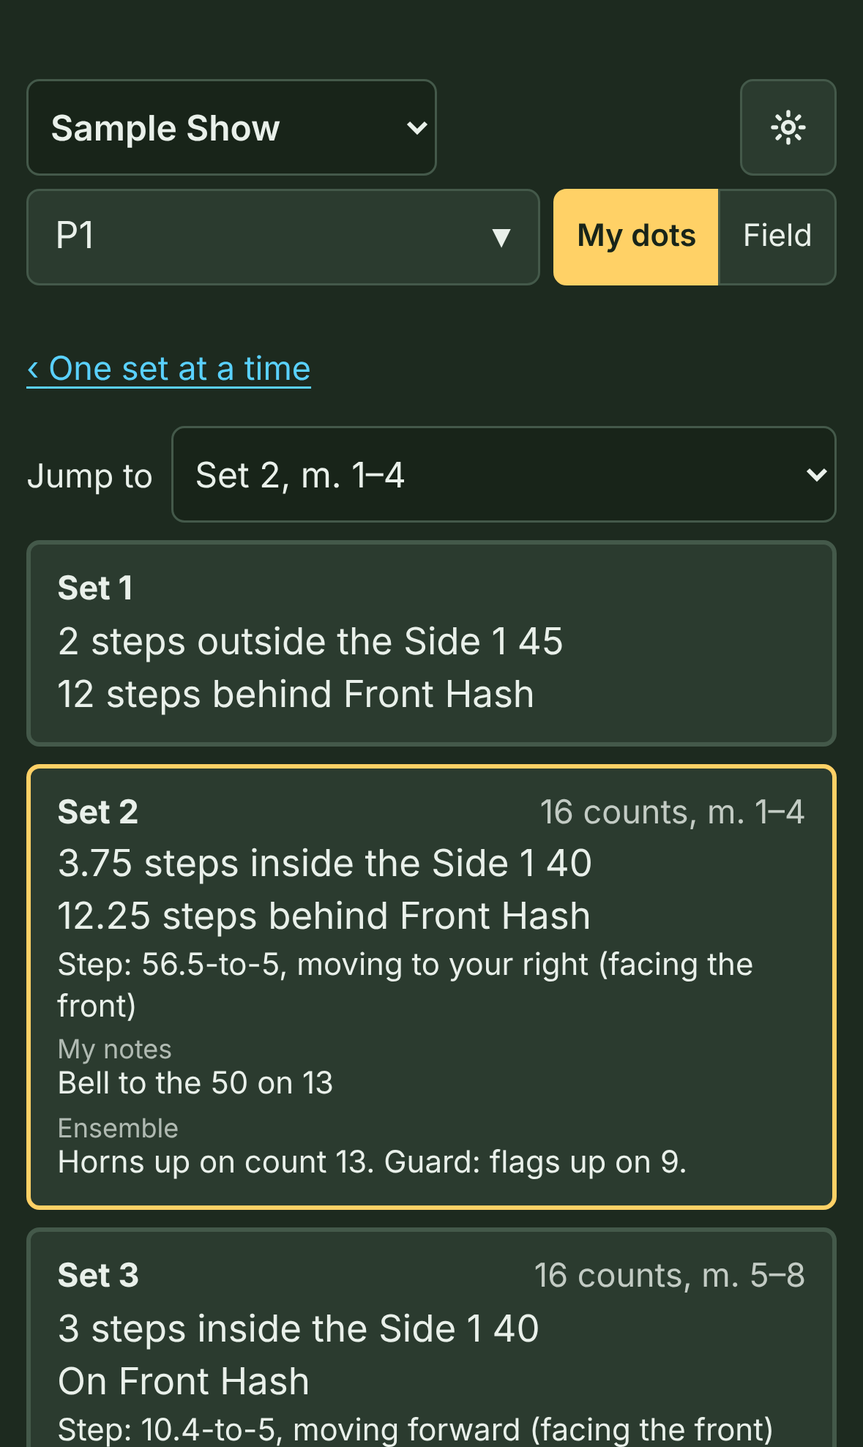
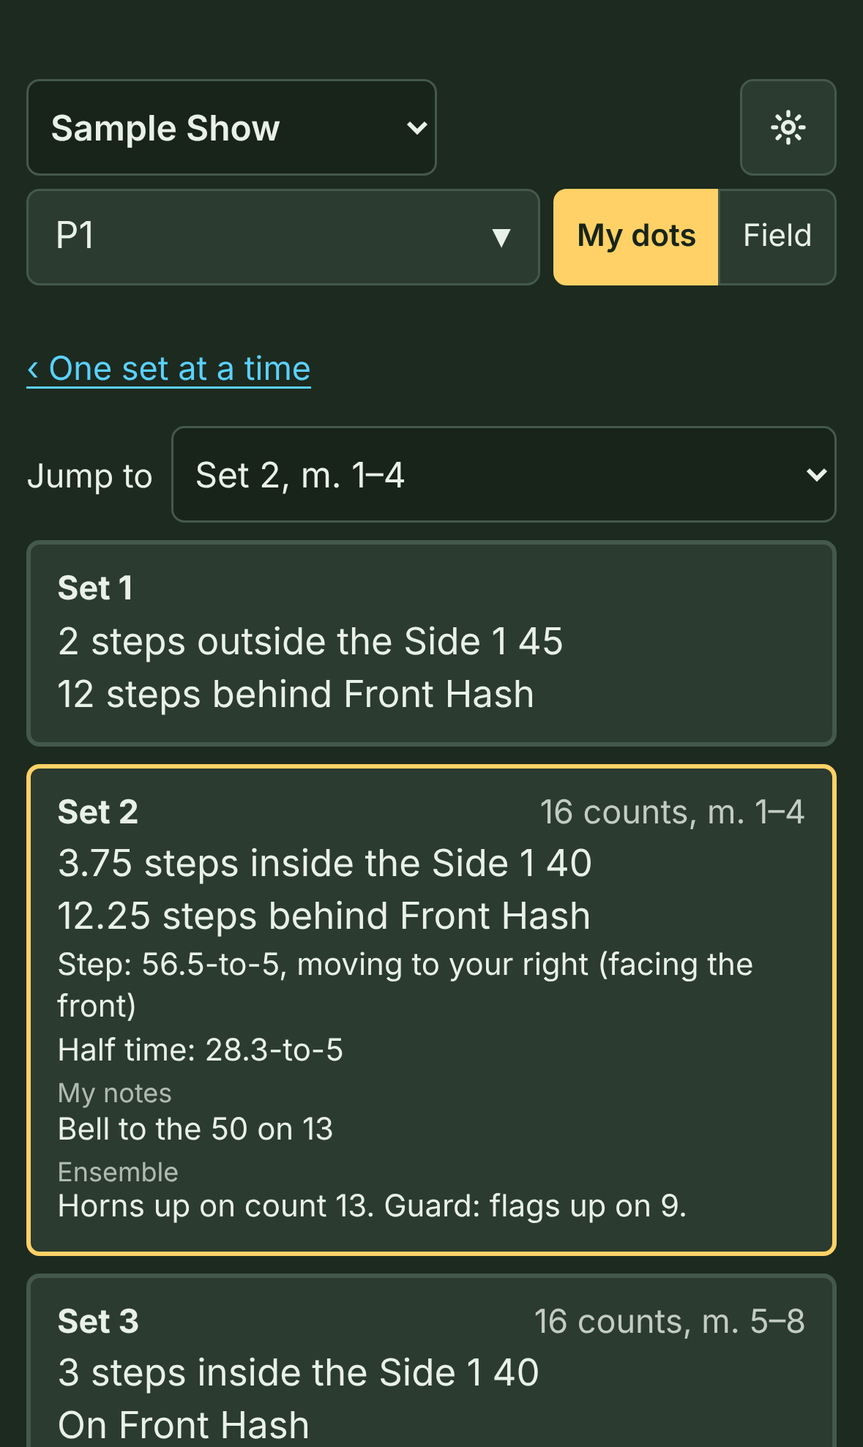
Half time on students' phones; a shape for each set color
- My dots cards show "Half time: 4-to-5" under the step (Spanish: Medio
  tiempo), with ⚠ when it's past the show's limit (Jason: students should see it).
- Each set color has its own shape (Blue ●, Purple ▲, Pink ✚, Orange ■, Teal ◆,
  Gray ★) before the set's name on the timeline, on the move into it, and in the
  set menu, so a colored set stands out, and the colors tell apart, without
  seeing color. palette.test.ts checks every color has a different shape.
- HOW-TO.md, STUDENTS.md and its Spanish twin, DECISIONS.md, and PLAN.md; the
  set-name, phone, and phone-all screenshots retaken.

Claude-Session: https://claude.ai/code/session_012ak5ZUYfV1W6pGA16tA6fL

Changed region(s): [[0.0305, 0.7097, 0.9771, 1.0]]

diff --git a/src/ui/Timeline.tsx b/src/ui/Timeline.tsx
@@ -48,6 +48,8 @@ export function Timeline({ show, checked = show, setShow, t, setT, playing, setP
   // A set's color (the writer's own grouping): a stripe on its button and its move, with the color's name in words too.
   const stripe = (i: number) => { const c = show.sets[i].color; return c ? setColorShade(c, theme) : null; };
   const colorWord = (i: number) => { const c = show.sets[i].color; return c ? ` (${SET_COLORS[c].name})` : ''; };
+  // ...and its own shape before the name, so a colored set stands out without seeing color (Jason).
+  const mark = (i: number) => { const c = show.sets[i].color; return c ? <span aria-hidden style={{ color: setColorShade(c, theme), marginRight: 3 }}>{SET_COLORS[c].mark}</span> : null; };
   // Pairs under a step apart, per move, from the settled show (so not on every step of a drag); only moves whose sets changed are checked again.
   const close = useMemo(() => checked.sets.map((_, i) => (i ? closeCallsMemo(checked, i).length : 0)), [checked]);
   const { to, count } = locate(show, t);
@@ -254,7 +256,7 @@ export function Timeline({ show, checked = show, setShow, t, setT, playing, setP
               boxShadow: [stripe(i) && `inset 0 -4px 0 ${stripe(i)}`, i === onSet && 'inset 0 0 0 2px var(--gold)'].filter(Boolean).join(', ') || undefined,
               ...(held === i ? { background: 'var(--gold-fill)', color: 'var(--on-gold)', transform: 'scale(1.1)', zIndex: 2 } : {}), padding: '0 6px', minWidth: TOUCH ? 44 : 24, lineHeight: '18px',
               cursor: i ? 'ew-resize' : 'pointer', touchAction: 'none' }}>
-            {s.name}
+            {mark(i)}{s.name}
           </button>
         ))}
       </div>
@@ -280,7 +282,7 @@ export function Timeline({ show, checked = show, setShow, t, setT, playing, setP
                 boxShadow: [stripe(i) && `inset 0 3px 0 ${stripe(i)}`, i === to && onSet < 0 && !past && 'inset 0 -3px 0 var(--gold)'].filter(Boolean).join(', ') || undefined }}>
                 <div style={{ padding: '2px 6px' }}>
                   {/* Counts and measures; then the biggest step, on every move, with ⚠ only when it's too big. No dots between. */}
-                  <div title={`Set ${show.sets[i - 1].name} to set ${s.name}${colorWord(i)}`}>{s.counts} counts{s.measures ? `, m. ${s.measures}` : ''}{s.ftl?.some((g) => g.order.length > 1) ? ', FTL' : s.ftl?.length ? ', custom path' : ''}
+                  <div title={`Set ${show.sets[i - 1].name} to set ${s.name}${colorWord(i)}`}>{mark(i)}{s.counts} counts{s.measures ? `, m. ${s.measures}` : ''}{s.ftl?.some((g) => g.order.length > 1) ? ', FTL' : s.ftl?.length ? ', custom path' : ''}
                     {big && short && <>, {maxStep(i, big.per5, big.tier)}</>}
                     {!!close[i] && short && <>, {tooClose(i)}</>}</div>
                   {big && !short && <div>{maxStep(i, big.per5, big.tier)}{!!close[i] && <>, {tooClose(i)}</>}</div>}
@@ -414,11 +416,11 @@ function SetColorPicker({ show, setShow, i }: { show: Show; setShow: (f: (s: Sho
       <button role="radio" aria-checked={!cur} onClick={() => pick(null)} style={chip}>No color</button>
       {SET_COLOR_NAMES.map((c) => (
         <button key={c} role="radio" aria-checked={cur === c} onClick={() => pick(c)} style={chip}>
-          <span aria-hidden style={{ width: 12, height: 12, borderRadius: 3, background: setColorShade(c, theme) }} />{SET_COLORS[c].name}
+          <span aria-hidden style={{ color: setColorShade(c, theme) }}>{SET_COLORS[c].mark}</span>{SET_COLORS[c].name}
         </button>
       ))}
     </div>
-    <p style={{ margin: '6px 0 0', opacity: 0.75, fontSize: 12, whiteSpace: 'normal', maxWidth: 280 }}>Group sets your own way (a tune, a phrase, what's finished). The color shows as a stripe on the timeline.</p>
+    <p style={{ margin: '6px 0 0', opacity: 0.75, fontSize: 12, whiteSpace: 'normal', maxWidth: 280 }}>Group sets your own way (a tune, a phrase, what's finished). The timeline shows the color's shape before the set's name, and a stripe in its color.</p>
   </>;
 }
 

diff --git a/src/perform/Perform.tsx b/src/perform/Perform.tsx
@@ -3,14 +3,14 @@ import { ThemeButton } from '../ui/ThemeButton';
 // Performer / staff view: read-only playback of a shared show, centered on "my" dot. Built for phones: upright, a performer
 // sees their dots as a list (My dots); sideways, the field and playback. A switch overrides the phone's orientation.
 import { lazy, Suspense, useEffect, useMemo, useRef, useState } from 'react';
-import { fieldDepth, readout, type Point } from '../engine/coords';
+import { STEP_LIMIT, fieldDepth, readout, type Point } from '../engine/coords';
 import { decodeShow, fetchHosted, LOAD_PREFIX, linkHash, parseHosted, SHARE_PREFIX } from '../engine/share';
 const Scanner = lazy(() => import('./Scanner').then((m) => ({ default: m.Scanner }))); // the QR reader is big; only a scan loads it
 import { isPhone } from './device';
 import { colorOf, fieldOf, propsAt, locate, mark, parseShow, positionsAt, setAt, setStarts, showLength, type Show } from '../engine/show';
 import { drawField, drawGlyph, drawLabels, drawMarks, drawPerformers, drawProps, fitView, INK, STEP_TEXT, toScreen, type View } from '../field/drawField';
 import { layoutPref, setLayoutPref } from '../ui/layout';
-import { fmtStep } from '../ui/format';
+import { fmtStep, halfTime } from '../ui/format';
 import { usePlayback } from '../ui/usePlayback';
 import { audioTime, clickAt, clickWanted, setClickWanted, wakeClick } from '../ui/click';
 import { COUNT_IN, countInBeat } from './countIn';
@@ -488,6 +488,8 @@ export function Perform() {
     <span className="dot-coord">{r.front}</span><span className="sr-only">. </span>
     {/* The move in plain words, with the step size in parentheses: "smaller step size than normal (10.4-to-5), moving forward". */}
     {r.steps && <span className="dot-small">{r.steps.tier !== 'ok' && '⚠ '}{tr('Step')}: <span style={{ color: STEP_TEXT[r.steps.tier] }}>{fmtStep(r.steps.per5, lang)}</span>{r.way ? `, ${r.way}` : ''}<span className="sr-only">. </span></span>}
+    {/* The same move marched half time (a step every other count), for students too (Jason, 2026-11-21). */}
+    {r.steps && (() => { const h = halfTime(r.steps.per5, show.stepLimit ?? STEP_LIMIT); return h && <span className="dot-small">{h.tier !== 'ok' && '⚠ '}{tr('Half time')}: <span style={{ color: STEP_TEXT[h.tier] }}>{fmtStep(h.per5, lang)}</span><span className="sr-only">. </span></span>; })()}
     {r.held && <span className="dot-small">{tr('Hold (same spot as set {name})', { name: show.sets[r.index - 1].name })}<span className="sr-only">. </span></span>}
     {r.hold && <span className="dot-small">{tr('hold {w}, move {m}', { w: r.hold.wait, m: r.hold.move })}{r.hold.after ? `, ${tr('hold {w}', { w: r.hold.after })}` : ''}<span className="sr-only">. </span></span>}
     {r.cue && <span className="dot-small"><span className="perform-k">{tr('My notes')}<span className="sr-only">: </span></span>{r.cue}<span className="sr-only">. </span></span>}

diff --git a/src/ui/palette.ts b/src/ui/palette.ts
@@ -139,17 +139,18 @@ export const useTheme = () => useSyncExternalStore((f) => { listeners.add(f); re
 
 /**
  * The colors a drill writer can tag a set with (a stripe on its timeline button and move). They carry only the writer's own
- * meaning, and always come with their name (tooltips, the set's menu, the sidebar), so color is never the only signal.
+ * meaning. Color is never the only signal: each has its own shape (`mark`, shown before the set's name, so a colored set
+ * stands out and the colors tell apart without seeing color, Jason), and its name in tooltips and spoken labels.
  * None is red, yellow, gold, or green, which already mean too big, bigger, selected, and done. Each has a shade per mode,
  * at least 3:1 against every panel color (palette.test.ts).
  */
-export const SET_COLORS: Record<SetColor, { name: string; dark: string; light: string }> = {
-  blue: { name: 'Blue', dark: '#6aa9ff', light: '#1f5fbf' },
-  purple: { name: 'Purple', dark: '#c39bff', light: '#7a3fc4' },
-  pink: { name: 'Pink', dark: '#ff8cc6', light: '#b8327a' },
-  orange: { name: 'Orange', dark: '#ffa45c', light: '#a8530f' },
-  teal: { name: 'Teal', dark: '#4fd1c5', light: '#0f7a70' },
-  gray: { name: 'Gray', dark: '#b8c2bb', light: '#5e6a63' },
+export const SET_COLORS: Record<SetColor, { name: string; mark: string; dark: string; light: string }> = {
+  blue: { name: 'Blue', mark: '●', dark: '#6aa9ff', light: '#1f5fbf' },
+  purple: { name: 'Purple', mark: '▲', dark: '#c39bff', light: '#7a3fc4' },
+  pink: { name: 'Pink', mark: '✚', dark: '#ff8cc6', light: '#b8327a' },
+  orange: { name: 'Orange', mark: '■', dark: '#ffa45c', light: '#a8530f' },
+  teal: { name: 'Teal', mark: '◆', dark: '#4fd1c5', light: '#0f7a70' },
+  gray: { name: 'Gray', mark: '★', dark: '#b8c2bb', light: '#5e6a63' },
 };
 /** A set color's shade in the current mode. */
 export const setColorShade = (c: SetColor, t: ThemeName) => SET_COLORS[c][t];

diff --git a/src/ui/palette.test.ts b/src/ui/palette.test.ts
@@ -40,6 +40,9 @@ describe.each([['app/index.html', app], ['index.html (the front page)', front], 
     // Set colors (a stripe on the timeline): 3:1 against every panel color, each in its own mode.
     for (const c of Object.values(SET_COLORS)) for (const [shade, Q] of [[c.dark, PALETTE], [c.light, LIGHT]] as const)
       for (const bg of [Q.bg, Q['bg-deep'], Q.surface, Q['surface-2']]) expect(ratio(shade, bg)).toBeGreaterThanOrEqual(3);
+    // Each color has its own shape, so a colored set stands out, and the colors tell apart, without seeing color.
+    const marks = Object.values(SET_COLORS).map((c) => c.mark);
+    expect(new Set(marks).size).toBe(marks.length);
   });
 });
 

diff --git a/src/i18n/es.ts b/src/i18n/es.ts
@@ -176,6 +176,7 @@ export const ES: Record<string, string> = {
   // My dots one set at a time, and the field's view names (2026-11-21)
   'Set': 'Set',
   'Step': 'Paso',
+  'Half time': 'Medio tiempo',
   'Watch move': 'Ver el movimiento',
   'Previous set': 'Set anterior',
   'Set {name}, m. {m}': 'Set {name}, c. {m}',

diff --git a/docs/HOW-TO.md b/docs/HOW-TO.md
@@ -160,7 +160,7 @@ The Selection area also has **Select all** (⌘A, or Ctrl+A on Windows) and **Se
 
 Coordinates read side to side first, then front to back, from the nearest yard line and the nearest sideline or hash, rounded to quarter steps. For example: "2 steps outside the Side 2 45, 2 steps in front of Front Hash," "Splitting 40 and 45 on Side 1," or "On the 50." Open **All sets** to see that performer's spot in every set.
 
-**Step size.** Under the coordinate, the sidebar gives that performer's exact step size for the move into the set, even a normal one, like "Move into set 3: 8.3-to-5, 16 counts." A delayed step-off says how many counts they actually move ("12 of 16 counts"), and a hold says so. The line under it, **Half time**, is the same move marched on every other count, so each step is twice as long: an 8-to-5 move is a 4-to-5 at half time. Use it to see whether a move will look as big as you want before you write it that way. A step past the warnings says so in words (⚠ a big step, ⚠ over the step limit), not only in color.
+**Step size.** Under the coordinate, the sidebar gives that performer's exact step size for the move into the set, even a normal one, like "Move into set 3: 8.3-to-5, 16 counts." A delayed step-off says how many counts they actually move ("12 of 16 counts"), and a hold says so. The line under it, **Half time**, is the same move marched on every other count, so each step is twice as long: an 8-to-5 move is a 4-to-5 at half time. Use it to see whether a move will look as big as you want before you write it that way. Performers see the half-time step on their phones too, under their step. A step past the warnings says so in words (⚠ a big step, ⚠ over the step limit), not only in color.
 
 **Placing someone exactly.** Open **Place exactly (this set)** under the coordinate, fill in the steps, inside or outside, the side and yard line, then the steps in front of or behind a sideline or hash, and click **Place**.
 
@@ -188,7 +188,7 @@ A set is one picture of the drill, and the move into it takes a number of counts
 
 Once you name a set yourself, FreeFORM stops renumbering sets for you. Adding or deleting a set leaves every other name alone, so your 12 stays 12. Shows you open from Pyware or OpenMarch start out this way, so their set names stay the way the writer had them (4A stays 4A). A new set gets the next number if it's free (after 6 comes 7) or a sub-set name if it isn't (6A). When you're done, **Renumber sets** in the same menu numbers every set in order, sub-sets included (1, 1A, 2 become 1, 2, 3), and FreeFORM goes back to numbering new sets itself. Undo reverses either one.
 
-**Coloring sets.** The same menu has a row of colors: **Blue**, **Purple**, **Pink**, **Orange**, **Teal**, and **Gray**, or **No color**. Use them to group sets your own way, like one color per tune, per phrase, or for sets that are finished. A colored set gets a stripe along the bottom of its button on the timeline and along the top of the move into it, and the color's name is in the button's tooltip. Colors are only for you in the editor: phones and printouts don't show them.
+**Coloring sets.** The same menu has a row of colors: **Blue**, **Purple**, **Pink**, **Orange**, **Teal**, and **Gray**, or **No color**. Use them to group sets your own way, like one color per tune, per phrase, or for sets that are finished. Each color has its own shape too (Blue ●, Purple ▲, Pink ✚, Orange ■, Teal ◆, Gray ★), so a colored set stands out even for someone who can't tell the colors apart. On the timeline, the shape comes before the set's name on its button and before the counts on the move into it, with a stripe in the color along each, and the color's name is in the tooltip. Colors are only for you in the editor: phones and printouts don't show them.
 
 Each move on the timeline shows its counts, measures, and the biggest step anyone takes, like **Max 8-to-5** (colored, with ⚠ in front, if it's too big; see [Step-size warnings](#step-size-and-too-close-warnings)).
 
@@ -550,7 +550,7 @@ When a student opens your link on their phone, they pick who they are.
 
 They can search by name, by dot (P4), or by section, and **Staff (whole band)** at the top shows everyone. FreeFORM remembers their choice, and the show keeps working offline once it's opened. (If the phone can't save it, say in a private window or with its storage full, a warning says so: the show will be gone when they close it and won't work offline, so they should open it in a regular window.)
 
-**Upright, the phone shows their dots, one set at a time.** Holding the phone upright, a performer sees **My dots**: the set buttons along the top, then a card for the set they're on, like one line of their printed dot sheet. The card has the set (**Set 2 ▾**: tap it for the phone's own list of sets), its counts and measures, and the side-to-side and front-to-back spot. It gives the step into it, like "Step: 8-to-5, moving back and to your left (facing the front)", with ⚠ in front only when the step is bigger than the show's limit, plus any hold before stepping off, their own notes, and the ensemble notes. When the route isn't a straight line (a custom path, a follow-the-leader, or a turn), it says so and gives only where they end up, since the straight-line direction would point them the wrong way. **▶ Watch move** plays the move into that set on the field. **‹ Previous set** and **Next set ›** stay at the bottom of the screen, wherever the card ends, with **All sets** between them: the whole list, like the printed dot sheet, with **Jump to** at the top. Tap a set in the list to see it as a card again.
+**Upright, the phone shows their dots, one set at a time.** Holding the phone upright, a performer sees **My dots**: the set buttons along the top, then a card for the set they're on, like one line of their printed dot sheet. The card has the set (**Set 2 ▾**: tap it for the phone's own list of sets), its counts and measures, and the side-to-side and front-to-back spot. It gives the step into it, like "Step: 8-to-5, moving back and to your left (facing the front)", and the same move marched half time ("Half time: 4-to-5"), each with ⚠ in front only when the step is bigger than the show's limit, plus any hold before stepping off, their own notes, and the ensemble notes. When the route isn't a straight line (a custom path, a follow-the-leader, or a turn), it says so and gives only where they end up, since the straight-line direction would point them the wrong way. **▶ Watch move** plays the move into that set on the field. **‹ Previous set** and **Next set ›** stay at the bottom of the screen, wherever the card ends, with **All sets** between them: the whole list, like the printed dot sheet, with **Jump to** at the top. Tap a set in the list to see it as a card again.
 
 ![A performer's set 2, on an upright phone](img/phone.png)
 

diff --git a/DECISIONS.md b/DECISIONS.md
@@ -681,10 +681,10 @@ Recent decisions are here. Older ones are in [docs/decisions/](docs/decisions/),
 ## 2026-11-21 19:20 EST: Shubreet Kaur's feedback
 - **Who:** Shubreet Kaur asked for these through the feedback form. Jason chose how set colors work (the writer picks one). The rest of the details are Claude's (*Jason can veto*).
 - **Exact step size:** clicking one performer shows "Move into set 3: 8.3-to-5, 16 counts" under their coordinate in the sidebar, for every move (a delayed step-off says "12 of 16 counts"; a hold says so). Warnings are in words too (⚠ a big step, ⚠ over the step limit). *Other options:* on the field beside the dot (crowded); only in a hover readout (gone on a touch screen).
-- **Half time:** a **Half time** line under it, on every move, with the same warning tiers: an 8-to-5 move reads "Half time: 4-to-5". Shubreet wants it to judge how big a move will look, not only for tiny steps. It's only in the editor: phones show the step as written, since a performer marches what the director wrote. *Other options:* a "half time" mark per move that changes the phone's step and the warnings (a bigger feature; worth doing if writers want to tell students "half time" in the drill itself); showing half time only for steps of 12-to-5 or smaller.
+- **Half time:** a **Half time** line under it, on every move, with the same warning tiers: an 8-to-5 move reads "Half time: 4-to-5". Shubreet wants it to judge how big a move will look, not only for tiny steps. Phones show it too, under the step, as "Half time: 4-to-5" (Spanish: "Medio tiempo"), with ⚠ when it's past the limit (Jason, 19:46: students should see it; Claude had first left it editor-only). *Other options:* a "half time" mark per move that changes the phone's step and the warnings (a bigger feature; worth doing if writers want to tell students "half time" in the drill itself); showing half time only for steps of 12-to-5 or smaller.
 - **Rotate around a performer:** the bug was that **Around** in **Rotate & Scale** only reached the ↺ ↻ and Expand/Contract buttons. The knob and corners on the field always used the center. Now they use the same choice, with a blue cross on the pivot performer and "around T1" in the readout. The choice is kept while those performers stay selected.
 - **Closest dot:** a checkbox in **Shape**, for every shape, not just the circle. On, each performer takes the spot nearest where they stand in this set (least total distance from there), and it deals the spots again as the handles move. Off (the default, as before), spots go by the shortest move from the set before. It stays on for the visit. *Other options:* a circle-only button; making it the default (it can cross paths in the move, which the old default never does).
-- **Set colors:** a row of six named colors in **Set N ▾** (Blue, Purple, Pink, Orange, Teal, Gray, or No color), saved with the set. A stripe along the bottom of the set's timeline button and the top of the move into it, with the color's name in the tooltip and the button's spoken name, so color isn't the only signal. No red, yellow, gold, or green, which already mean warnings, selection, and done. A shade per mode, each at least 3:1 on every panel color (`SET_COLORS` in palette.ts, tested). Editor only: phones and printouts don't show them. *Other options (Jason):* phones and chart headers too; automatic colors by movement.
+- **Set colors:** a row of six named colors in **Set N ▾** (Blue, Purple, Pink, Orange, Teal, Gray, or No color), saved with the set. A stripe along the bottom of the set's timeline button and the top of the move into it, with the color's name in the tooltip and the button's spoken name. Each color also has its own shape before the set's name, on the move, and in the menu (Blue ●, Purple ▲, Pink ✚, Orange ■, Teal ◆, Gray ★), so a colored set stands out, and the colors tell apart, without seeing color (Jason, 19:46). *Other options (Claude):* one shared mark for every colored set (it says "special" but not which color); stripe patterns (solid, dashed, dotted), which are hard to tell apart at 3 or 4 px. No red, yellow, gold, or green, which already mean warnings, selection, and done. A shade per mode, each at least 3:1 on every panel color (`SET_COLORS` in palette.ts, tested). Editor only: phones and printouts don't show them. *Other options (Jason):* phones and chart headers too; automatic colors by movement.
 - **Notes on the phone's Field screen:** the set's **My notes** and **Ensemble** notes show under the one-line readout, in the side column, so the field never changes size.
 - **Movement names:** Shubreet said the movement labels on the timeline were covered by the audio track. The waveform was drawn over them; now the names are drawn on top of it.
 

diff --git a/PLAN.md b/PLAN.md
@@ -26,13 +26,13 @@
 ## From Shubreet Kaur's feedback (2026-11-21, through the feedback form)
 - [x] Set names, counts, measures, and notes no longer hidden by the audio track: they show in the sidebar now (done in the simpler screen). Movement names on the timeline are drawn over the waveform now, not under it.
 - [x] Clicking a performer shows their exact step size for the move, even a normal step.
-- [x] Half time shown with its step size: a **Half time** line under the step size, on every move (editor only).
-- [x] Color-coded sets: six named colors in **Set N ▾**, a stripe on the timeline (editor only).
+- [x] Half time shown with its step size: a **Half time** line under the step size, on every move, in the editor and on students' phones.
+- [x] Color-coded sets: six named colors in **Set N ▾**, each with its own shape, on the timeline (editor only).
 - [x] Bug: rotate (and scale) around a chosen performer turned around the selection's center when you used the knob and corners on the field. They use **Around** now.
 - [x] **Closest dot** in **Shape**: each performer takes the spot nearest where they stand.
 - [x] Set notes on the phone's Field screen, not only on My dots.
 - [ ] Ask: which Pyware version Shubreet uses, and a show file to test import (asked 2026-11-21).
-- [ ] Maybe: a "half time" mark per move that phones and the warnings use, if writers want to tell students in the drill itself.
+- [ ] Maybe: a "half time" mark per move, so the writer says which moves are half time and phones and the warnings use that step.
 - [ ] Maybe: set colors on phones and printed chart headers.
 
 ## Later milestones (rough order)

diff --git a/docs/STUDENTS.es.md b/docs/STUDENTS.es.md
@@ -20,7 +20,7 @@ Sostén el teléfono vertical. **Mis puntos** muestra un set a la vez, en una ta
 
 - el set, sus tiempos y sus compases
 - tu lugar: primero de lado a lado, después de adelante hacia atrás
-- cómo llegar: tu tamaño de paso y hacia dónde vas, como si miraras al frente (un ⚠ quiere decir que el paso es grande)
+- cómo llegar: tu tamaño de paso y hacia dónde vas, como si miraras al frente (un ⚠ quiere decir que el paso es grande), y **Medio tiempo**: el tamaño de paso si marchas el movimiento en tiempos alternos, por si tu director pide medio tiempo
 - tus notas y las notas del conjunto
 
 Los números de set de arriba van directo a un set. También **Set 2 ▾** en la tarjeta: tócalo para ver la lista de sets de tu teléfono. **‹ Set anterior** y **Set siguiente ›** se quedan abajo en la pantalla. **Todos los sets** muestra todos los sets a la vez, como toda la hoja de puntos, con **Ir a** arriba; toca un set ahí para ver su tarjeta.

diff --git a/docs/STUDENTS.md b/docs/STUDENTS.md
@@ -20,7 +20,7 @@ Hold the phone upright. **My dots** shows one set at a time, as a card, like one
 
 - the set, its counts, and its measures
 - your spot: side to side first, then front to back
-- how to get there: your step size and which way you go, as if you're facing the front (a ⚠ means the step is a big one)
+- how to get there: your step size and which way you go, as if you're facing the front (a ⚠ means the step is a big one), and **Half time**: the step size if you march the move on every other count, in case your director asks for half time
 - your own notes and the ensemble notes
 
 The set numbers along the top go straight to a set. So does **Set 2 ▾** on the card: tap it for your phone's list of sets. **‹ Previous set** and **Next set ›** stay at the bottom of the screen. **All sets** shows every set at once, like the whole dot sheet, with **Jump to** at the top; tap a set there to see its card.
